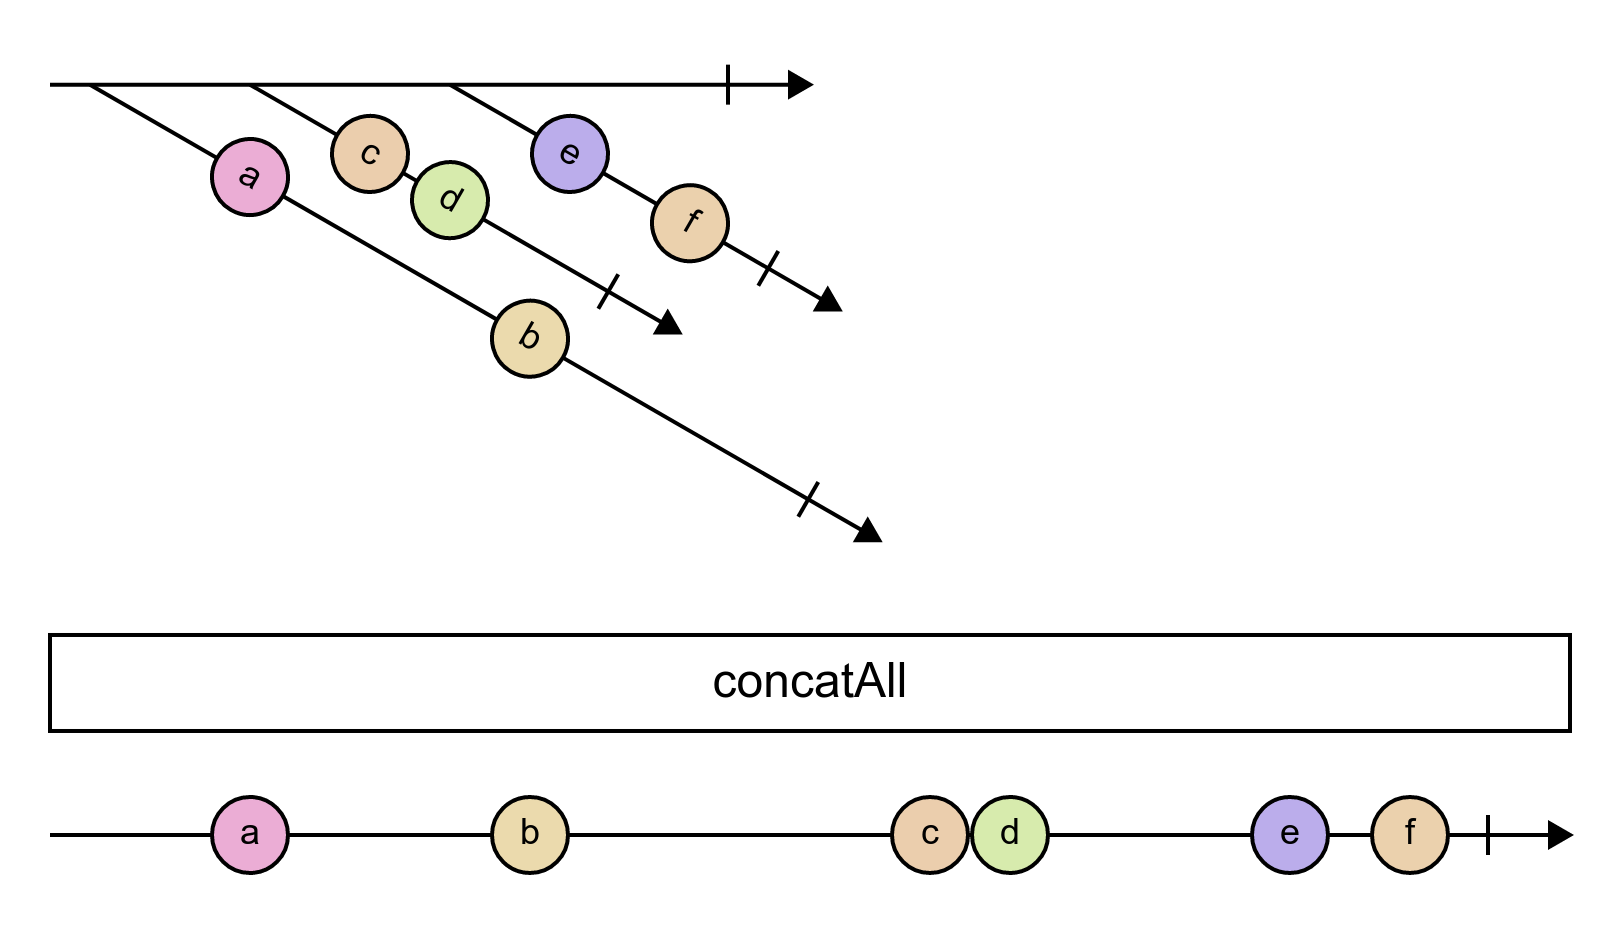
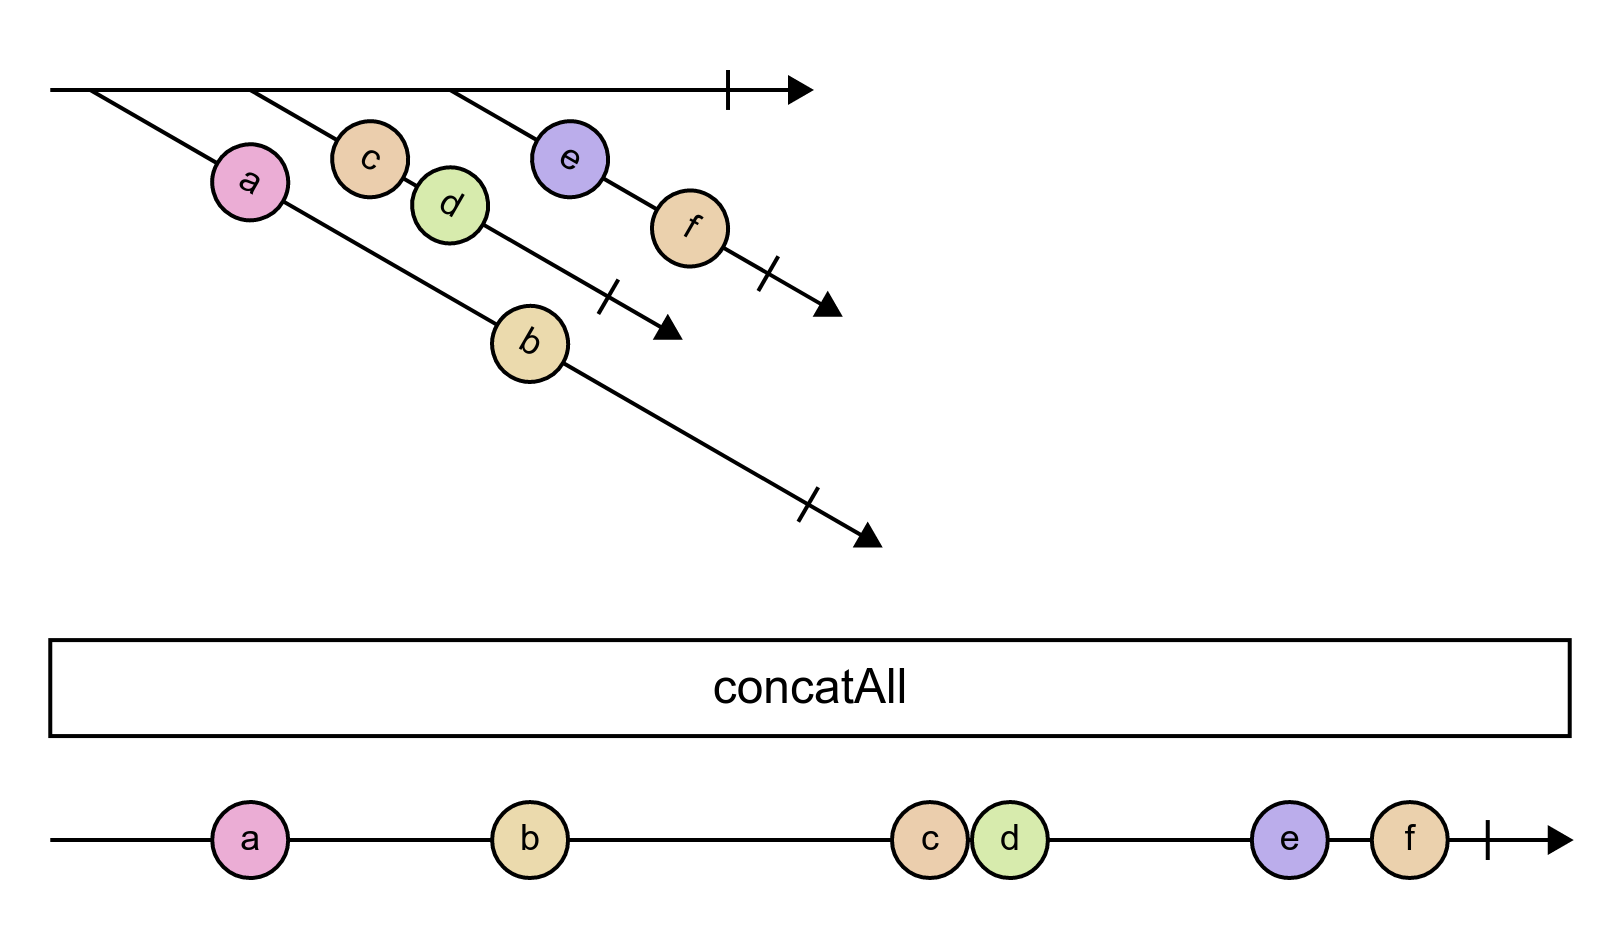
Make arrow occupy full stream height so empty observables are centered

diff --git a/packages/swirly-renderer/src/types.ts b/packages/swirly-renderer/src/types.ts
@@ -43,7 +43,7 @@ export type PostRenderUpdateContext = {
 }
 
 export type UpdatableRendererResult = RendererResult & {
-  update: (ctx: PostRenderUpdateContext) => void
+  update?: (ctx: PostRenderUpdateContext) => void
 }
 
 export type MessageRendererOptions = {

diff --git a/packages/swirly-renderer/src/arrow.ts b/packages/swirly-renderer/src/arrow.ts
@@ -50,9 +50,9 @@ export const renderArrow = (
 
   const bbox = {
     x1: 0,
-    y1,
+    y1: 0,
     x2: width,
-    y2
+    y2: streamHeight
   }
 
   return {
